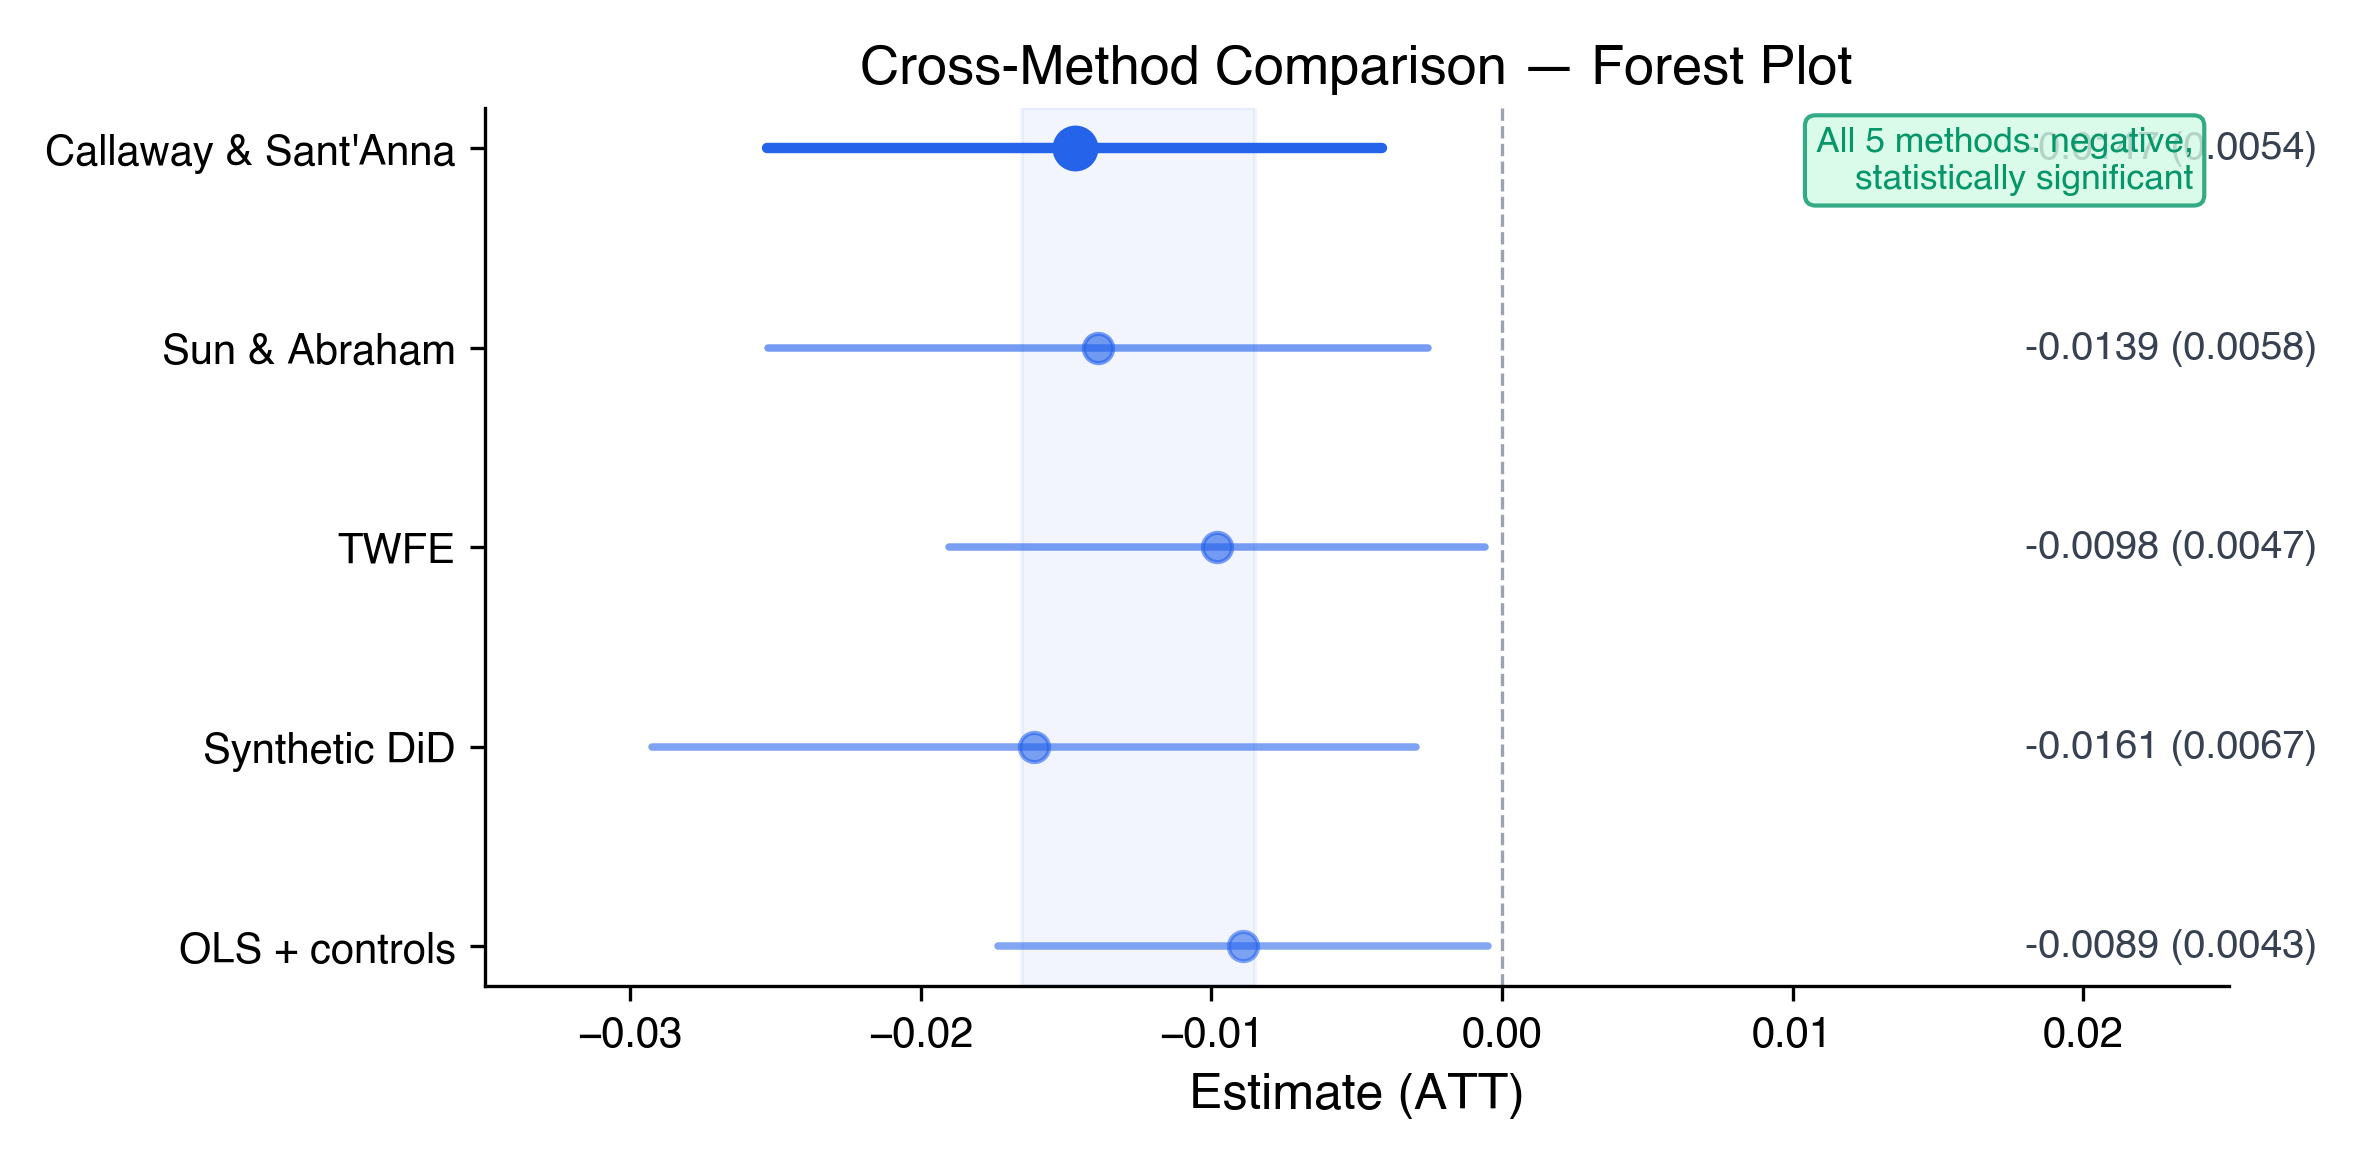
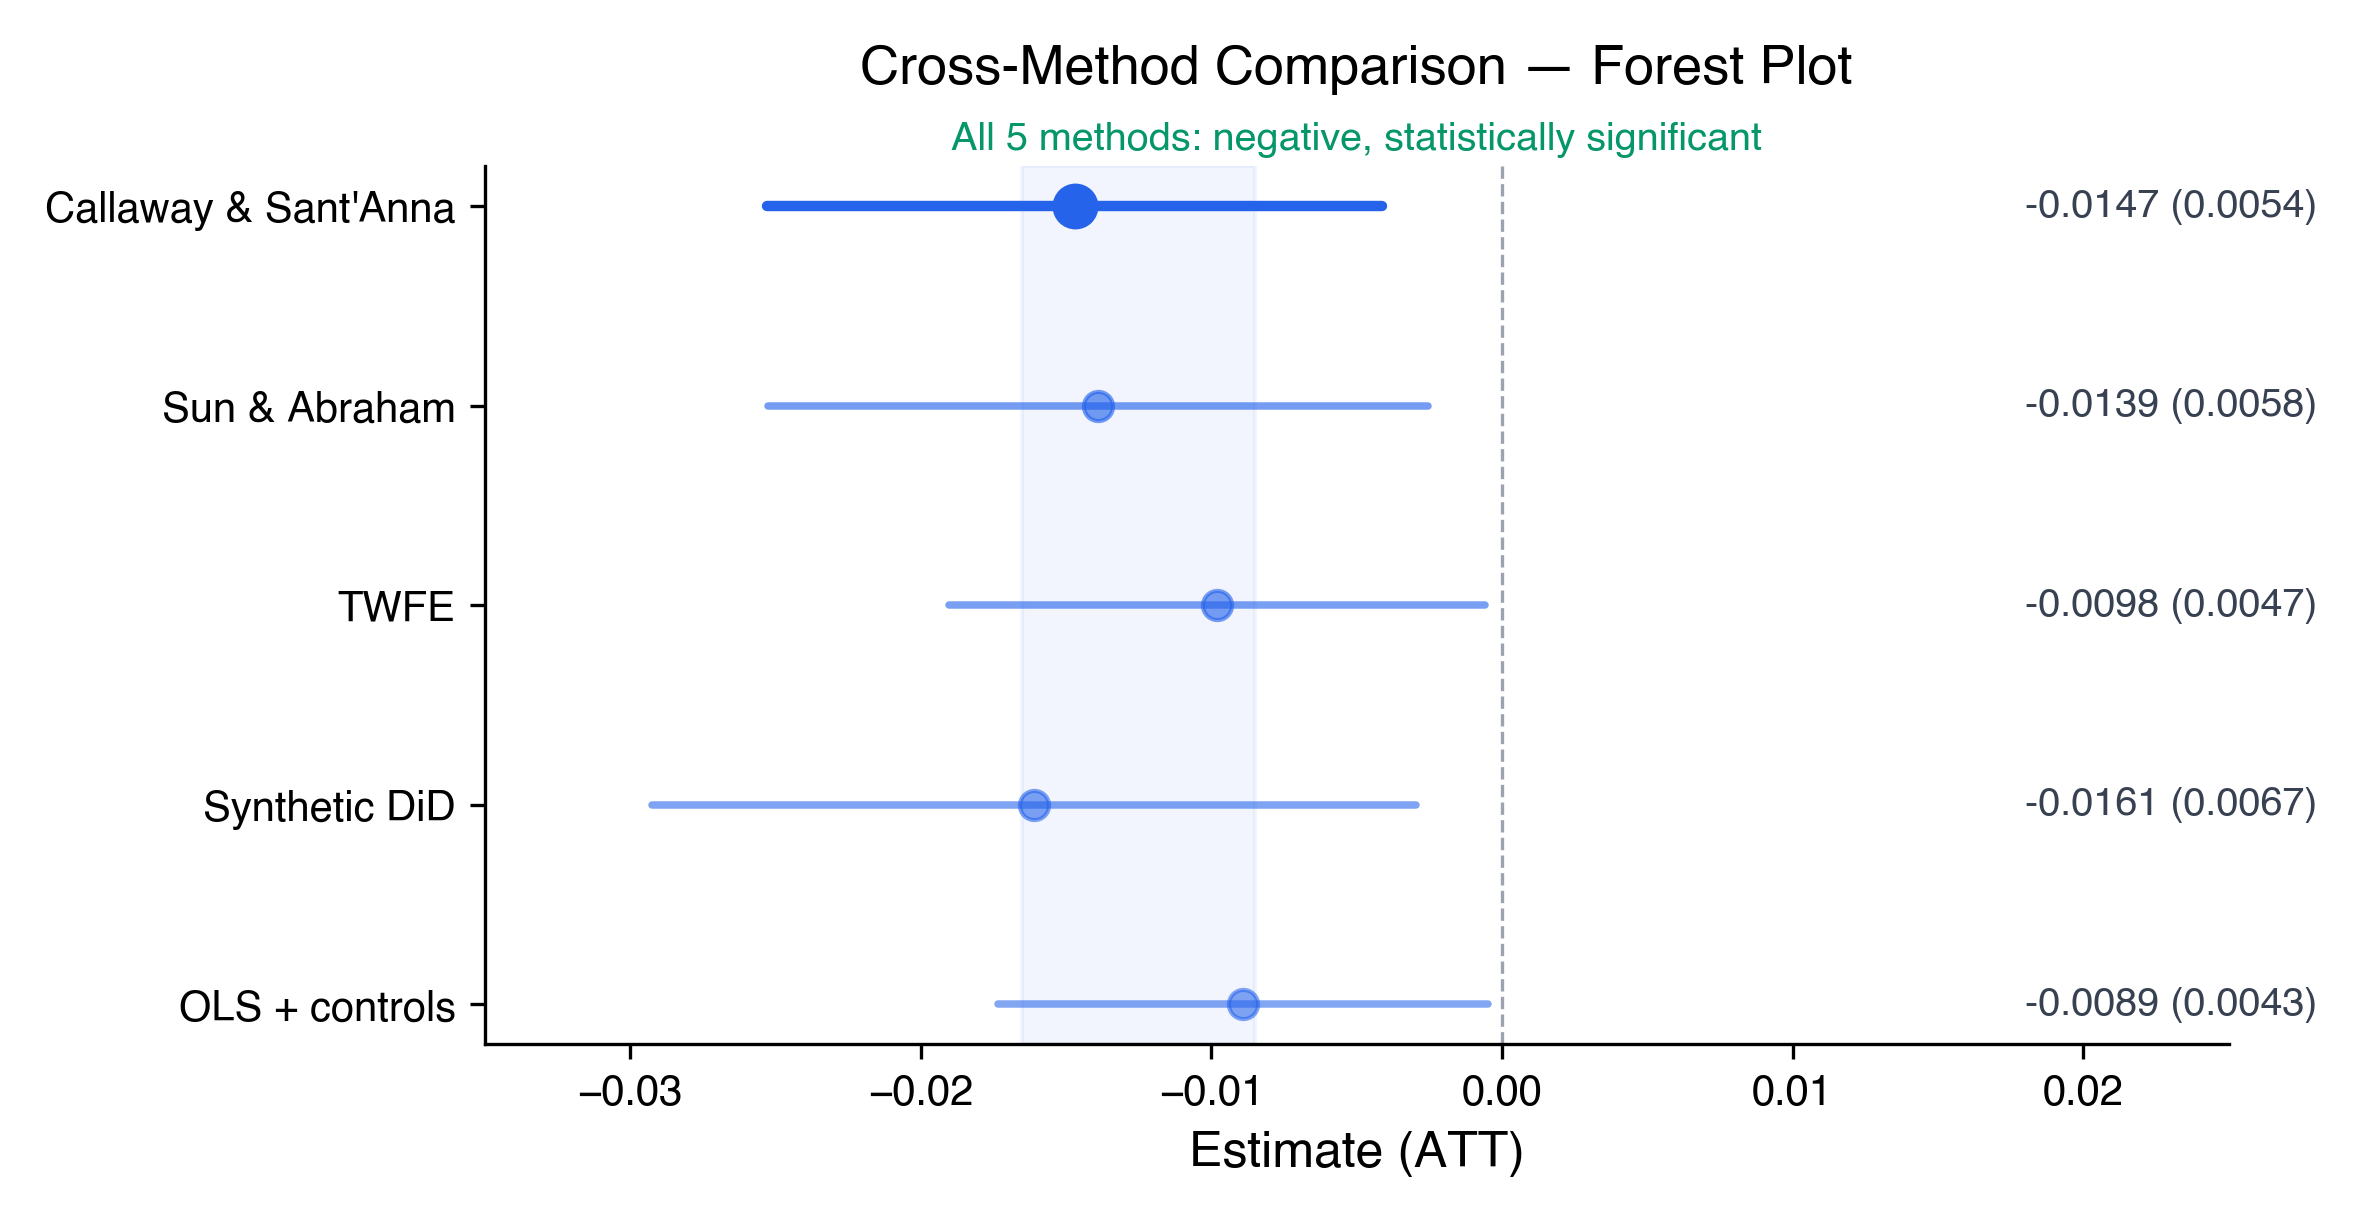
Fix fig5: move summary text to subtitle to avoid overlap with data

diff --git a/examples/sample-output/generate_figures.py b/examples/sample-output/generate_figures.py
@@ -397,15 +397,13 @@ def fig5_cross_method_forest():
     ax.set_yticks(y_pos)
     ax.set_yticklabels(methods, fontsize=10)
     ax.set_xlabel('Estimate (ATT)')
-    ax.set_title('Cross-Method Comparison — Forest Plot')
+    ax.set_title('Cross-Method Comparison — Forest Plot\n', fontsize=13, fontweight='bold')
+    # Subtitle with summary
+    ax.text(0.5, 1.01, 'All 5 methods: negative, statistically significant',
+            transform=ax.transAxes, fontsize=9.5, va='bottom', ha='center',
+            color=C_GREEN, fontweight='bold')
     ax.set_xlim(-0.035, 0.025)
     ax.invert_yaxis()
-
-    # Summary
-    ax.text(0.98, 0.98, 'All 5 methods: negative,\nstatistically significant',
-            transform=ax.transAxes, fontsize=8.5, va='top', ha='right',
-            color=C_GREEN, fontweight='bold',
-            bbox=dict(boxstyle='round,pad=0.3', facecolor='#D1FAE5', edgecolor='#059669', alpha=0.8))
 
     fig.savefig(f'{OUTDIR}/fig5_cross_method_forest.pdf')
     fig.savefig(f'{OUTDIR}/fig5_cross_method_forest.png')